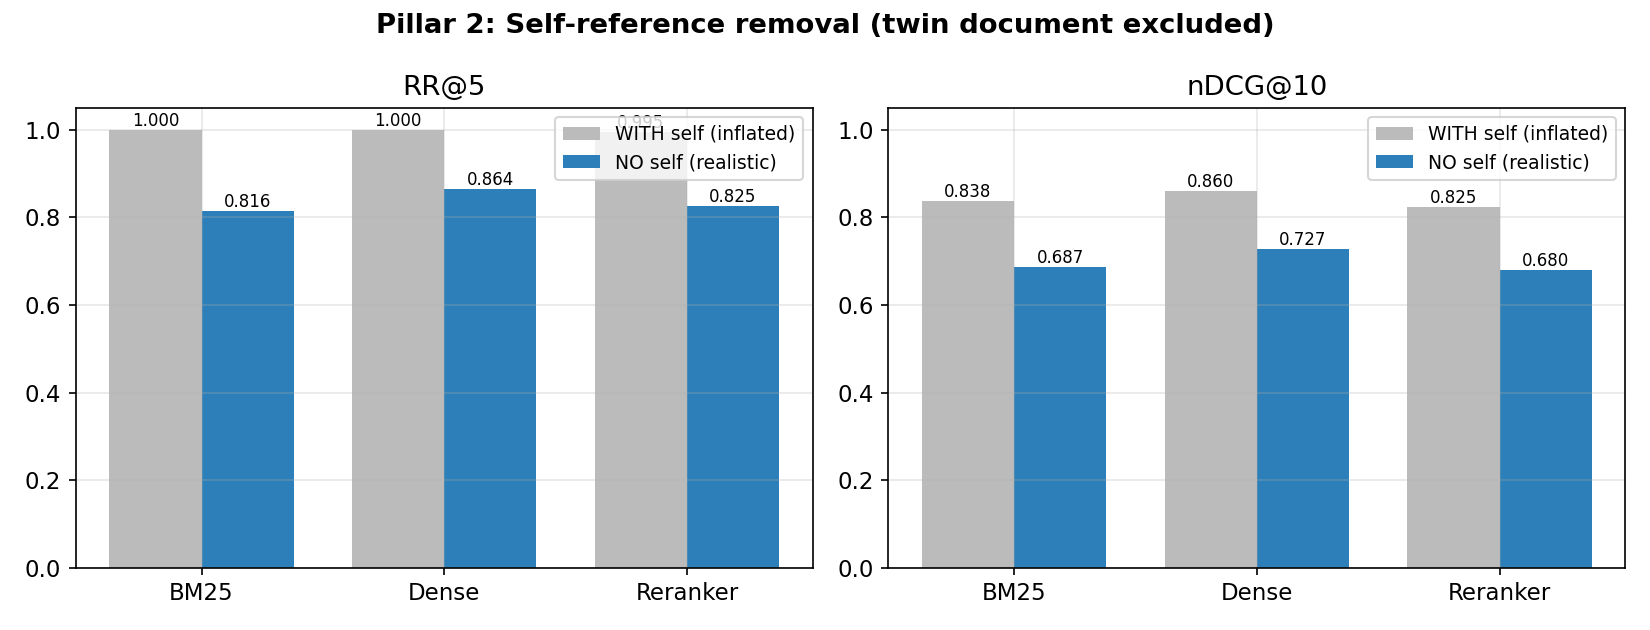
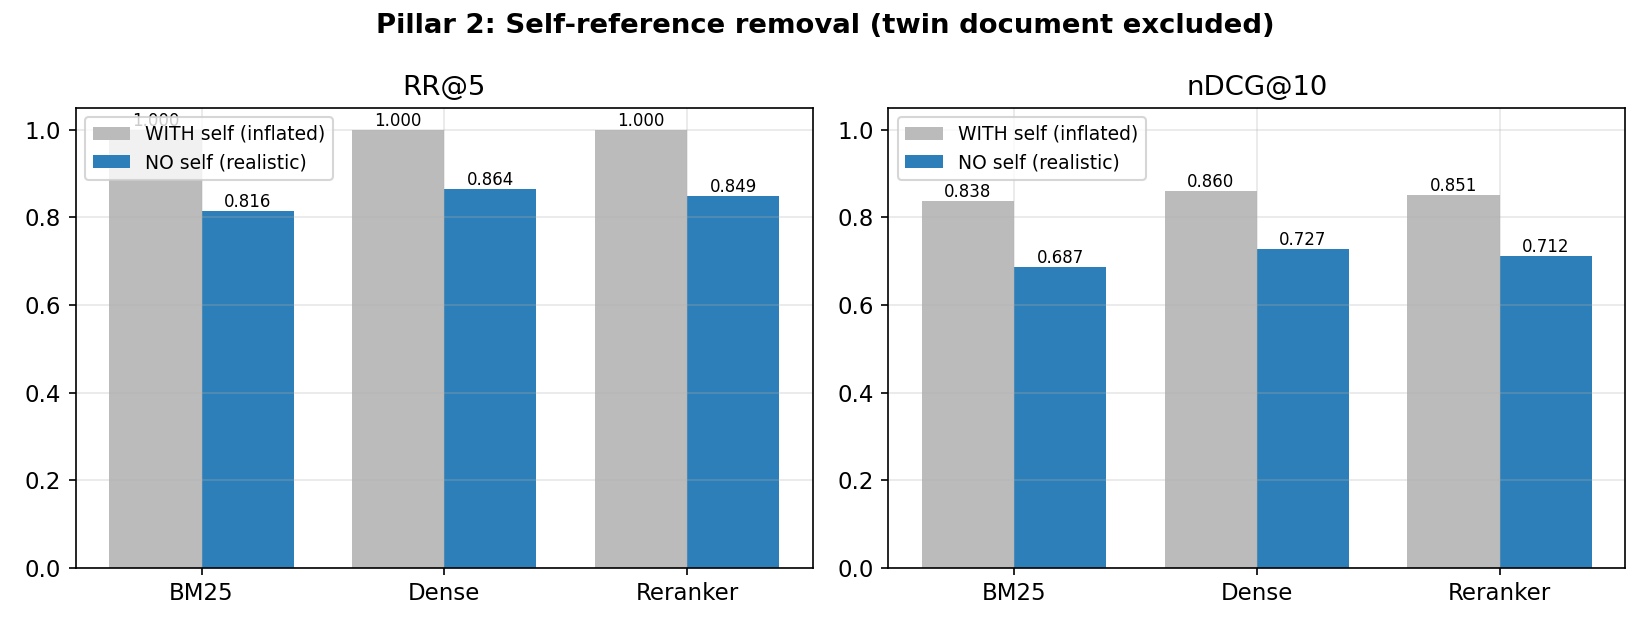
[검색평가] 리랭커 입력 보강: 2요소→전체 4요소+분야·관할
리랭커(_get_text)가 후보의 observation+request(4요소 중 2개)만 보던 것을,
Dense가 임베딩한 전체 4요소 본문(snippet) + category(소관 분야)·region(관할)까지
보도록 보강. 코퍼스에 답변/법령 필드는 없어 미사용.

효과 (NO-self, 3채점관 qrels, BM25·Dense 불변으로 효과 격리 확인):
- nDCG@10 0.680→0.712 (+0.032), AP@10 0.223→0.254 (+0.031), RR@5 0.825→0.849
- Reranker가 BM25 추월(2위), Dense와 거의 동률(AP@10 격차 0.002)

리랭커의 열세는 모델 한계가 아니라 "입력 빈약"이 원인이었음을 입증 →
#263 제거 결정의 근거를 추가로 약화. 입력 보강은 순이득이라 유지.

diff --git a/app/retrieval/pipeline/stages/cross_encoder_rerank.py b/app/retrieval/pipeline/stages/cross_encoder_rerank.py
@@ -67,20 +67,31 @@ class CrossEncoderRerankStage:
 
 
 def _get_text(doc: RetrievedDoc) -> str:
+    """리랭커 입력 텍스트.
+
+    Dense가 임베딩한 전체 4요소 본문(snippet)과 소관 분야/관할 신호(category·region)를
+    함께 사용한다. 기존에는 observation+request(4요소 중 2개)만 써서 입력이 빈약했고,
+    이는 관련성 판단(같은 법령·관할의 선례인지)에 불리했다.
+    """
     meta = doc.metadata
-    title = str(meta.get("title") or "")
 
-    summary = meta.get("summary") or {}
-    if isinstance(summary, dict):
-        observation = str(summary.get("observation") or "")
-        request = str(summary.get("request") or "")
-        body = " ".join(part for part in (observation, request) if part)
-    else:
-        body = ""
-
+    # 본문: snippet(전체 4요소)을 우선 사용, 없으면 summary observation+request로 폴백
+    body = str(meta.get("snippet") or "")
     if not body:
-        body = str(meta.get("snippet") or "")
+        summary = meta.get("summary") or {}
+        if isinstance(summary, dict):
+            body = " ".join(
+                part for part in (
+                    str(summary.get("observation") or ""),
+                    str(summary.get("request") or ""),
+                ) if part
+            )
+    if not body:
+        body = str(meta.get("title") or "")
 
-    if title and body:
-        return f"{title} {body}"
-    return title or body or doc.docid
+    # 소관 분야/관할 신호 (관련성의 핵심: 같은 분야·지역인가)
+    domain = " ".join(
+        part for part in (str(meta.get("category") or ""), str(meta.get("region") or "")) if part
+    )
+    text = f"[{domain}] {body}".strip() if domain else body
+    return text or doc.docid

diff --git a/docs/20_domains/retrieval/eval_overhaul_summary.md b/docs/20_domains/retrieval/eval_overhaul_summary.md
@@ -78,10 +78,21 @@ LLM 채점관 3개의 **중앙값(median)**으로 라벨 결정. 약한 모델 a
 
 (참고: 실제 라벨러 exaone–gemma κ = 0.666, 기존 검증값 0.715와 동급)
 
+### 3.5 리랭커 입력 보강 (후속)
+리랭커가 후보의 `observation+request`(4요소 중 2개)만 보고 있던 것을, Dense가 임베딩한 **전체 4요소 본문 + 소관 분야(category)·관할(region)**까지 보도록 보강(`_get_text`). BM25·Dense는 불변이라 효과가 리랭커에만 격리된다.
+
+| 지표 (NO-self) | 구 입력 | 보강 입력 | 변화 |
+|---|---|---|---|
+| nDCG@10 | 0.680 | **0.712** | +0.032 |
+| AP@10 | 0.223 | **0.254** | +0.031 |
+| RR@5 | 0.825 | **0.849** | +0.024 |
+
+→ 보강 후 **Reranker가 BM25를 추월(2위)하고 Dense와 거의 동률**(AP@10 격차 0.002). 리랭커의 열세는 "입력 빈약"이 원인이었음을 입증. 답변/법령 필드는 코퍼스에 없어 미사용(한계).
+
 ## 4. 결론
 
 1. **Dense가 명확한 1위** — 공정·현실·3채점관 어느 조건에서도 전 지표 최고. Dense 채택은 정당.
-2. **BM25 ≈ Reranker** — 자기참조 제거 시 키워드 검색이 reranker와 대등 → **#263의 reranker/Hybrid 제거는 부풀려진 증거 기반이었음**.
+2. **Reranker는 입력만 제대로 주면 Dense와 대등** — 기본 입력(2요소)에선 BM25와 비슷했으나, 전체 4요소+분야·관할로 보강하니 BM25를 추월하고 Dense에 거의 근접(§3.5). → **#263의 reranker/Hybrid 제거는 부풀려진 증거 + 빈약한 입력 기반이었음**.
 3. **자기참조가 점수를 ~15pt 과대평가** (RR 1.0→0.86).
 
 ## 5. 한계 및 향후
